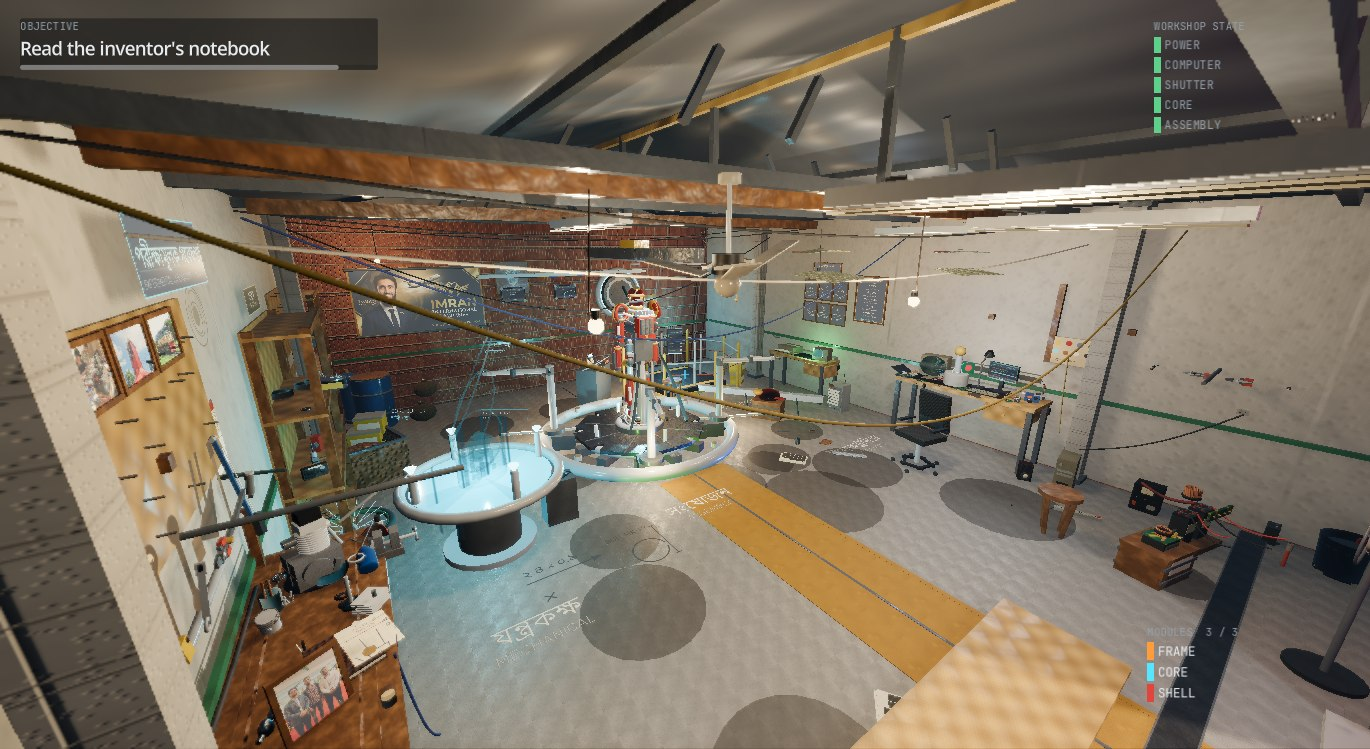
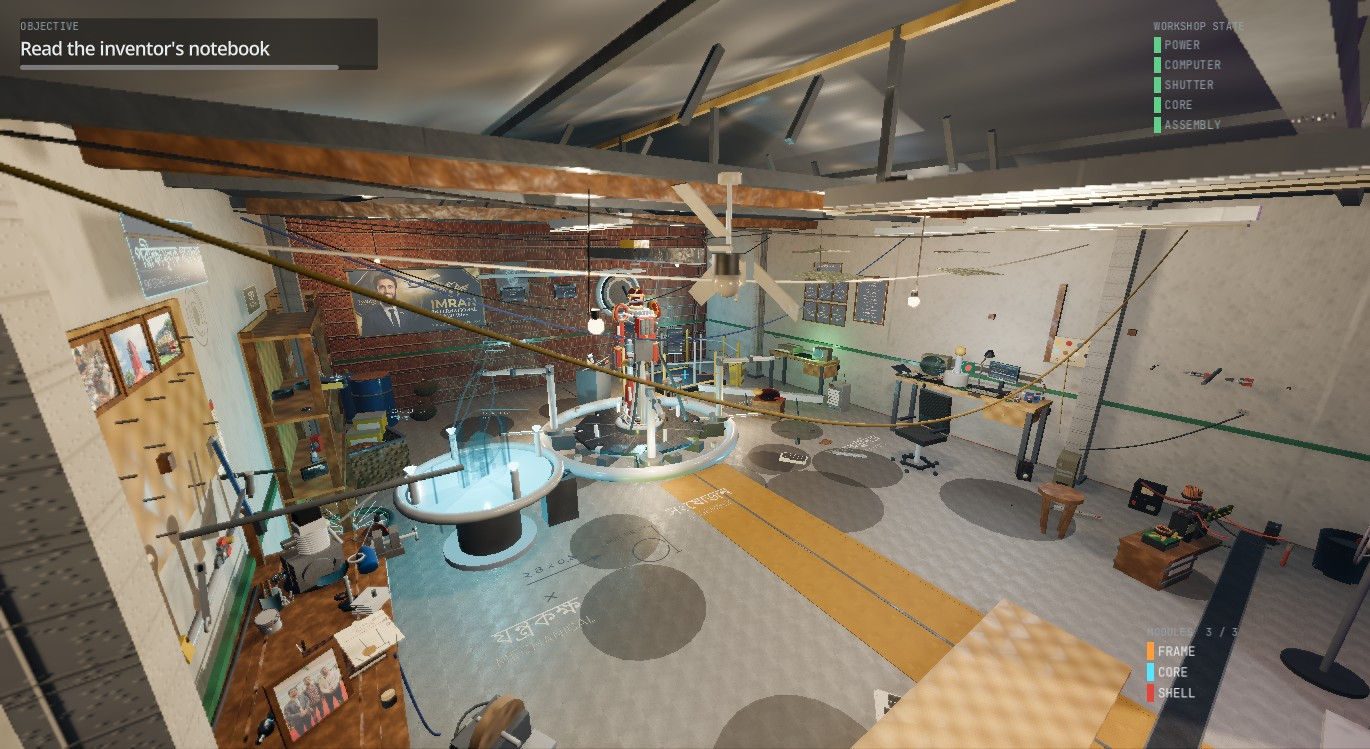
armour realism pass: painted-metal physics, fake hardware, clear stage
The figure read as coloured foil: 0.55 metallic over 0.58x the roughness
map, no occlusion, no scale discipline, clean primitives. This pass fixes
all four — and clears the stage it stands on.

Materials (material_library.gd):
- paint is near-dielectric (metallic 0.18) with the roughness map as the
  authority, a light clearcoat as the paint's own sheen, and the paint
  set's AO map on UV1 (ao_on_uv2 off — ShapeKit primitives carry no UV2;
  ao_light_affect 0.2 so the pockets read under the lamps)
- the worn-alloy underlayer runs 0.75 metallic with its albedo lifted so
  it is not a black hole in shadow
- both albedo maps compress contrast at load (adjust_bcs 0.62) and ride
  uv1_scale 2.2, so wear reads as paint grain, not camouflage

Fake details (props_daily.gd, ~74 new meshes; figure 77 -> 154):
- legs (29 -> 58): bolted outer thigh plates, knee hubs, shin panel
  lines, boot side vents, heel grilles, hip and belt bolts, groin guard
- torso (35 -> 70): studded core bezel, chest vents, sternum line,
  shoulder hubs, bolted pauldrons, armpit vents, forearm ridges with
  bolts, finger seams, shoulder-blade vents, strapped power pack
- head (13 -> 26): brow bolts, crest fin, temple nubs, ear hubs, cheek
  bolts, mouth guards, rear vents
- two extra paint tones (weathered red, dull brass) break the single-tint
  flatness; every detail casts no shadow

Placement (garage_dressing.gd): the deep overlap audit flagged the one
[…]

Changed region(s): [[0.4599, 0.2457, 0.5825, 0.4299], [0.3066, 0.9212, 0.4292, 1.0]]

diff --git a/README.md b/README.md
@@ -36,7 +36,7 @@ is running on.
 ### The garage, in pictures
 
 All frames below are real-time captures taken by the project's own verification harness — the
-twenty-viewpoint camera set documented in `docs/EXPERIMENTS.md`, driven through the full
+twenty-one-viewpoint camera set documented in `docs/EXPERIMENTS.md`, driven through the full
 progression and written with luminance histograms so the build can be checked frame by frame.
 
 |  |  |
@@ -57,6 +57,8 @@ progression and written with luminance histograms so the build can be checked fr
 | Thirteen community-licensed photographs pinned at the entrance | The Sylhet division map beside the door |
 | <img src="screenshots/19_store.jpg" width="420"> | <img src="screenshots/10_final_garage.jpg" width="420"> |
 | The store: shelf, placard and the stock register | The workshop from the lane, roof to floor |
+| <img src="screenshots/20_armor_close.jpg" width="420"> | <img src="screenshots/01_exterior.jpg" width="420"> |
+| The shop's armour figure up close: painted-metal photo textures, bolted plates, lit core | The garage from the courtyard, the sign over the gate |
 
 ---
 
@@ -79,7 +81,7 @@ godot --path . res://scenes/main/main_menu.tscn
 godot --path . res://scenes/main/garage_world.tscn
 ```
 
-The first launch builds the garage: surface synthesis, then the shell, lighting rig, 191 props,
+The first launch builds the garage: surface synthesis, then the shell, lighting rig, 205 props,
 screens and interfaces. On the reference machine (Intel UHD 620, 1600×900) the measured build is
 **≈ 11–12 s** — it moves with machine load — reported on screen step by step and written to a log.
 
@@ -90,7 +92,7 @@ global-illumination features; the Settings panel switches it live.
 ### Capture / verification mode
 
 Dropping an empty file named `capture.flag` next to `project.godot` puts the world into verification
-mode: it drives the whole twelve-step progression, then parks the camera at twenty fixed viewpoints
+mode: it drives the whole twelve-step progression, then parks the camera at twenty-one fixed viewpoints
 and writes a PNG plus a luminance histogram for each, then quits. The files land in `user://captures/`
 (`%APPDATA%\Godot\app_userdata\Deshi Iron Garage\captures\` on Windows), which is how the screenshots
 quoted in `docs/EXPERIMENTS.md` were produced. It is not a shipped feature and has no effect without
@@ -120,7 +122,7 @@ the flag file.
 | `F9` | jump the garage to its finished state (demonstration shortcut) |
 | `T` | thesis panel — the project's measured claims |
 | `R` | reset the demo back to the morning |
-| `1`–`9`, `0`, `[` `]` | jump / step through the twenty fixed viewpoints |
+| `1`–`9`, `0`, `[` `]` | jump / step through the twenty-one fixed viewpoints |
 | `\` | return to where you stood |
 
 **For a presentation.** The shop's armour is built — the whole figure, in three
@@ -147,7 +149,7 @@ instead. `R` puts
 the whole garage back to the morning so the
 sequence can run again, `T` opens the measured claims (the checklist lives in the
 console, `Tab` → Assembly → Armour), and `1`–`0` / `[` `]` jump the camera through
-the twenty fixed viewpoints — press `\` to come back to your spot.
+the twenty-one fixed viewpoints — press `\` to come back to your spot.
 
 Just about anything loose can be picked up: tools, tins, tea glasses, stools, tyres,
 drums, crates, chairs, shelves, workbenches, the bicycle, even the holographic table —
@@ -238,16 +240,18 @@ geometry, not asserted in text.
   gloss is **per material family**, not one global number: masonry and earth stay matte, the sealed
   concrete floor is lightly polished, varnished wood and paint are glossy, bare metal most of all, and
   the SSAO is tuned a touch wider and heavier so contact shadows hold the room together.
-- **A house armour project.** A whole red-and-gold armoured figure on a service base by the north
-  wall — core lens and eye slits lit — with its spare helmet, chest plate, gauntlet and boot laid out
-  where they are worked on. Procedurally built, deliberately unbranded, and every piece individually
-  pickable with the mouse (as are the prototype suit's own parts, one by one).
+- **A house armour project.** A whole red-and-gold armoured figure on a service base at the front
+  of the shop — core lens and eye slits lit, its plates wearing the CC0 painted-metal photo sets
+  and a realism pass of bolts, panel lines, vents and a studded core bezel. Procedurally built,
+  deliberately unbranded, and every assembly individually pickable with the mouse (as are the
+  prototype suit's own parts, one by one).
 
 ### Geometry
 
 - **Procedural geometry throughout.** Boxes, cylinders, lathes, gears from tooth parameters,
   tube sweeps along parallel-transported frames, and compound assemblies — `ShapeKit` and the four
-  prop catalogues build **203 props in 140 distinct kinds** in 4.1 s.
+  prop catalogues build **205 props in 139 distinct kinds** (the dressing step measures 4.4–6.8 s
+  with machine load).
 - **Procedural cable generation.** Catenary-approximated paths swept as tubes with
   parallel-transport framing (so the UV ribbing never twists), with bundling of several wires into
   one `ArrayMesh` — a real draw-call saving, measured in Experiment 4.

diff --git a/docs/PROJECT_OVERVIEW.md b/docs/PROJECT_OVERVIEW.md
@@ -155,11 +155,11 @@ recorded in `docs/ASSET_LICENSES.md`.
 | Notice wall | Thirteen community-licensed (CC BY-SA 4.0) photographs of the country — rickshaws, Sadarghat market, a Khulna tea stall, the Sylhet tea gardens, the railway, boats, paddy — pinned crooked to a plywood board on the entrance wall; every file's author and source recorded in `docs/ASSET_LICENSES.md` |
 | Faked wear | Flush overlays and chips that make the room read used: painted tool outlines on the pegboard, chalk dimension notes on the floor, tea rings and an old spill on the bench top, a six-row paper label strip on the component drawers, and a scatter of stickers — no props, no stations, no lights |
 | Sound | Every clip synthesised as PCM at load — no sound packs. Surface-aware footsteps (concrete, steel deck, packed earth), tools, servos, the shutter's chain rattle — and an instrument-free nature ambience (wind, leaves, sparrows) as the project's music, from the title screen on |
-| Armour | A whole red-and-gold armoured figure on a service base by the north wall — core lens and eye slits lit — with its spare helmet, chest plate, gauntlet and boot laid out where they are worked on; procedurally built, deliberately unbranded, every piece pickable |
+| Armour | A whole red-and-gold armoured figure on a service base at the front of the shop — core lens and eye slits lit — its plates wearing the CC0 painted-metal photo sets and a realism pass of bolts, panel lines, vents and a studded core bezel; procedurally built, deliberately unbranded, built in three pickable assemblies (see Presentation) |
 | Global gloss | Surface gloss is per material family, not one global number: masonry and earth stay matte, the sealed concrete floor is lightly polished, varnished wood and paint are glossy, bare metal most of all - and the SSAO runs wider and heavier so contact shadows hold the room together |
 | Wayfinding | Painted stencils on the floor name all four bays, placards cap the two storage shelves, and an entrance directory board carries a mini floor plan - the shop reads as five organised areas, not one crowded room |
 | Weather | The yard runs a slow rain cycle - rain, after-rain, dry, drizzle. The shared concrete slab wets with the rain (roughness and albedo move as one uniform, dry 0.62 to 0.41) and dries as the machine parks dry; the capture harness pins it dry so verification shots stay deterministic |
-| Presentation | The shop's armour is built from three assemblies - legs, torso, head - carried from a build pallet at the entrance to the service base by the north wall, low to high (the head seat powers the whole figure on; the bolts then seal it on their own); both assemblies guide themselves with a big floating arrow over every waiting part and a light column on the next step, plus a tracker board under the objective (every step in plain words, with live distances, and wrong moves answered in red with the correction) - and the room carries a viewpoint tour (twenty fixed views), a thesis panel with the measured claims (T), and a demo reset (R) that returns the garage to the morning |
+| Presentation | The shop's armour is built from three assemblies - legs, torso, head - carried from a build pallet at the entrance to the service base by the north wall, low to high (the head seat powers the whole figure on; the bolts then seal it on their own); both assemblies guide themselves with a big floating arrow over every waiting part and a light column on the next step, plus a tracker board under the objective (every step in plain words, with live distances, and wrong moves answered in red with the correction) - and the room carries a viewpoint tour (twenty-one fixed views), a thesis panel with the measured claims (T), and a demo reset (R) that returns the garage to the morning |
 | Surface synthesis | The per-texel pass is banded across the worker pool and bit-identical to the serial order (MD5-checked), which brought the quiet build from ~11 s to 9.2 s |
 | Auto-opening gate | The shutter's presence sensor rolls the curtain up as anyone approaches the courtyard — it starts most of the way down and the room wakes up as it lifts. It can no longer be lowered |
 | Always-on bulbs | Five bare bulbs — walk lane, both benches, the testing corner, the store — are wired ahead of the switchboard to the incoming line, outside every switchable circuit: the room is never dark, even at the start, and each bulb carries its own light when you pick it up |

diff --git a/docs/ASSET_LICENSES.md b/docs/ASSET_LICENSES.md
@@ -16,7 +16,7 @@ imported**; texture images are runtime-synthesised except two CC0 PBR sets on th
 | Photographs (13) | The notice-wall collage, `assets/textures/wall/` | **Wikimedia Commons, CC BY-SA 4.0**, fetched through the Commons API and resized to 480 px | Every file, author and source page is listed below |
 | Photographs (10) | The two smaller boards — the streets and the working country | **Openverse (Flickr originals), CC0 / CC BY 2.0 / CC BY-SA 2.0**, fetched through the Openverse API, licence-filtered, resized to 480 px | Every file, author and source page is listed below |
 | Texture images | 34 surface sets × 3 channels = 102 images | **Synthesised at runtime** by `TextureFactory` | Original work |
-| Texture images (2 sets, 6 maps) | The armour figure's plates and underlayer, `assets/textures/armor/` | **ambientCG, CC0 1.0**, 1K JPGs resized to 512 at load | PaintedMetal009 (paint) and Metal027 (worn metal) — the sets are CC0, no attribution required, credited here anyway |
+| Texture images (2 sets, 7 maps) | The armour figure's plates and underlayer, `assets/textures/armor/` | **ambientCG, CC0 1.0**, 1K JPGs resized to 512 at load | PaintedMetal009 (paint) and Metal027 (worn metal) — the sets are CC0, no attribution required, credited here anyway |
 | Supplied photograph | 1 image (127 KB) | **Provided by the project's author** — the workshop banner hung on the north wall | Author's own work, used with the author's permission |
 | Audio | every clip | **Synthesised at runtime** by `AudioSynth` | Original work; no recorded music and no musical instruments anywhere — the ambience is wind, leaves, sparrows, the street and the rain |
 | Shaders | 6 files | Written for this project | Original work |
@@ -105,7 +105,7 @@ generated meshes are original work.
 
 ### 2.2 Textures
 
-No imported texture exists in `assets/` except the six armour maps in `assets/textures/armor/`
+No imported texture exists in `assets/` except the seven armour maps in `assets/textures/armor/`
 (section 2.2b). Every other surface is synthesised at load by `scripts/procedural/texture_factory.gd`
 from 34 recipes, producing an albedo, an ORM (occlusion/roughness/metallic) and a tangent-space
 normal per surface.
@@ -122,14 +122,19 @@ channels — is original work and is described in `docs/GRAPHICS_ALGORITHMS.md` 
 
 The armour figure's materials are the one place where real photographs are used. Two PBR sets from
 [ambientCG](https://ambientcg.com/) — both released under **CC0 1.0** (public domain, no attribution
-required; credited here anyway) — supply the colour, roughness and normal maps for the plates:
+required; credited here anyway) — supply the colour, roughness, normal and occlusion maps for the
+plates:
 
 | Set | Asset | Maps used | Role on the figure |
 |---|---|---|---|
-| Paint | `PaintedMetal009` — <https://ambientcg.com/view?id=PaintedMetal009> | `armor_paint_color.jpg`, `armor_paint_rough.jpg`, `armor_paint_normal.jpg` | The red painted plating (`armor_paint()`), tinted at load so the paint reads as the figure's red |
+| Paint | `PaintedMetal009` — <https://ambientcg.com/view?id=PaintedMetal009> | `armor_paint_color.jpg`, `armor_paint_rough.jpg`, `armor_paint_normal.jpg`, `armor_paint_ao.jpg` | The red painted plating (`armor_paint()`), tinted at load so the paint reads as the figure's red |
 | Worn metal | `Metal027` — <https://ambientcg.com/view?id=Metal027> | `armor_metal_color.jpg`, `armor_metal_rough.jpg`, `armor_metal_normal.jpg` | The underlayer and exposed machinery (`armor_dark()`) |
 
-The downloads are 1K JPGs; each is resized to 512 px when loaded by `MaterialLibrary._armor_map()`
+The realism pass binds the paint set's occlusion map on the primitives' single UV channel
+(`ao_on_uv2` off, `ao_light_affect` 0.2), keeps metallic and roughness as tuned scalars — the sets'
+metalness maps are uniform (all paint / all metal) and would carry no information — and adds a light
+clearcoat as the paint's own sheen. The downloads are 1K JPGs; each is resized to 512 px when loaded
+by `MaterialLibrary._armor_map()`
 (`Image.load_from_file()` + resize, no import side files — same loading path as the author's own
 photographs). If a file is missing the material falls back to its flat tint and a warning is printed,
 so the figure never renders untextured.

diff --git a/docs/SYSTEM_ARCHITECTURE.md b/docs/SYSTEM_ARCHITECTURE.md
@@ -225,13 +225,16 @@ systems, the weather machine (rain → after-rain → dry → drizzle, with the 
 wetting and drying as one uniform), and the coupling of shutter position to daylight shafts and fog
 density.
 
-**`armor_assembly.gd`** — the presentation arm of the dressing: the shop's four spare armour shells
-can be test-fitted by hand onto the practice figure. It owns the sockets (figure-local offsets), the
-fitted state, the duplicated glow materials so the light ramps stay local, and the station texts;
-the figure's station (kind `ARMOR`) delegates to it, and the carry system hands the held part over
-through `settle_held()`. `garage_world.demo_reset()` uses its `dismount_all(instant)` together with
-`runtime.reset_assembly()` to return the whole demo to the morning, and the viewpoint tour is a thin
-reuse of the capture harness's own `_cap_place()`.
+**`armor_assembly.gd`** — the presentation arm of the dressing: the shop's armour is built in three
+assemblies (legs, torso, head), carried from the build pallet at the entrance and seated on the
+service base low to high; the finished figure then performs its walk-and-dance show after the bolts
+seal. It owns the sockets (figure-local offsets), the fitted/locked state, the guide (floating
+arrows, the beacon, tracker texts and the red corrections), the auto-seat paths (walk-up, a rested
+look, a place at the base, and the pallet tidy rule), the duplicated glow materials so the light
+ramps stay local, and the station texts; the figure's station (kind `ARMOR`) delegates to it, and
+`garage_world.demo_reset()` uses its `dismount_all(instant)` together with `runtime.reset_assembly()`
+to return the whole demo to the morning. The viewpoint tour is a thin reuse of the capture harness's
+own `_cap_place()`.
 
 **`screen_content.gd`** — builds the spec for every display in the garage from a single `_snapshot()`
 of the simulation, so no screen can disagree with another and no separate data path has to be kept in
@@ -364,7 +367,7 @@ and in the capture harness. The rain, the dust and the footsteps use separate se
 one does not perturb another.
 
 **Fixed capture viewpoints.** The capture harness drives the progression to a known state and parks
-the camera at twenty declared transforms, which is what makes the screenshots in `captures/`
+the camera at twenty-one declared transforms, which is what makes the screenshots in `captures/`
 comparable between code revisions. It also reports a luminance histogram per shot: the check that
 matters most is the `black` percentage, because a lighting rig that renders almost nothing still
 produces a screenshot and would otherwise read as success.

diff --git a/docs/EXPERIMENTS.md b/docs/EXPERIMENTS.md
@@ -39,7 +39,7 @@ transfer.
   `CableGenerator.last_stats`, `GarageDressing.layout_stats()`.
 
 **Reproducibility controls.** Fixed seed 1337 for prop generation; a per-group seed for each
-procedural layout; per-surface seeds derived by hash; twenty fixed camera transforms; 30 frames of
+procedural layout; per-surface seeds derived by hash; twenty-one fixed camera transforms; 30 frames of
 warm-up discarded before every measurement.
 
 **Known weakness.** Godot 4.7 exposes no GPU timestamp query. All per-pass costs below are

diff --git a/docs/USER_MANUAL.md b/docs/USER_MANUAL.md
@@ -57,7 +57,7 @@ written to `user://captures/build.log`.
 | **T** | thesis panel — the project's measured claims |
 | **R** | reset the demo back to the morning |
 | **1–9, 0** | jump to a fixed viewpoint |
-| **`[` `]`** | step through all twenty viewpoints |
+| **`[` `]`** | step through all twenty-one viewpoints |
 | **Backslash** | return to where you stood |
 
 The mouse is captured while you are in the garage. Press **Esc** to release it.
